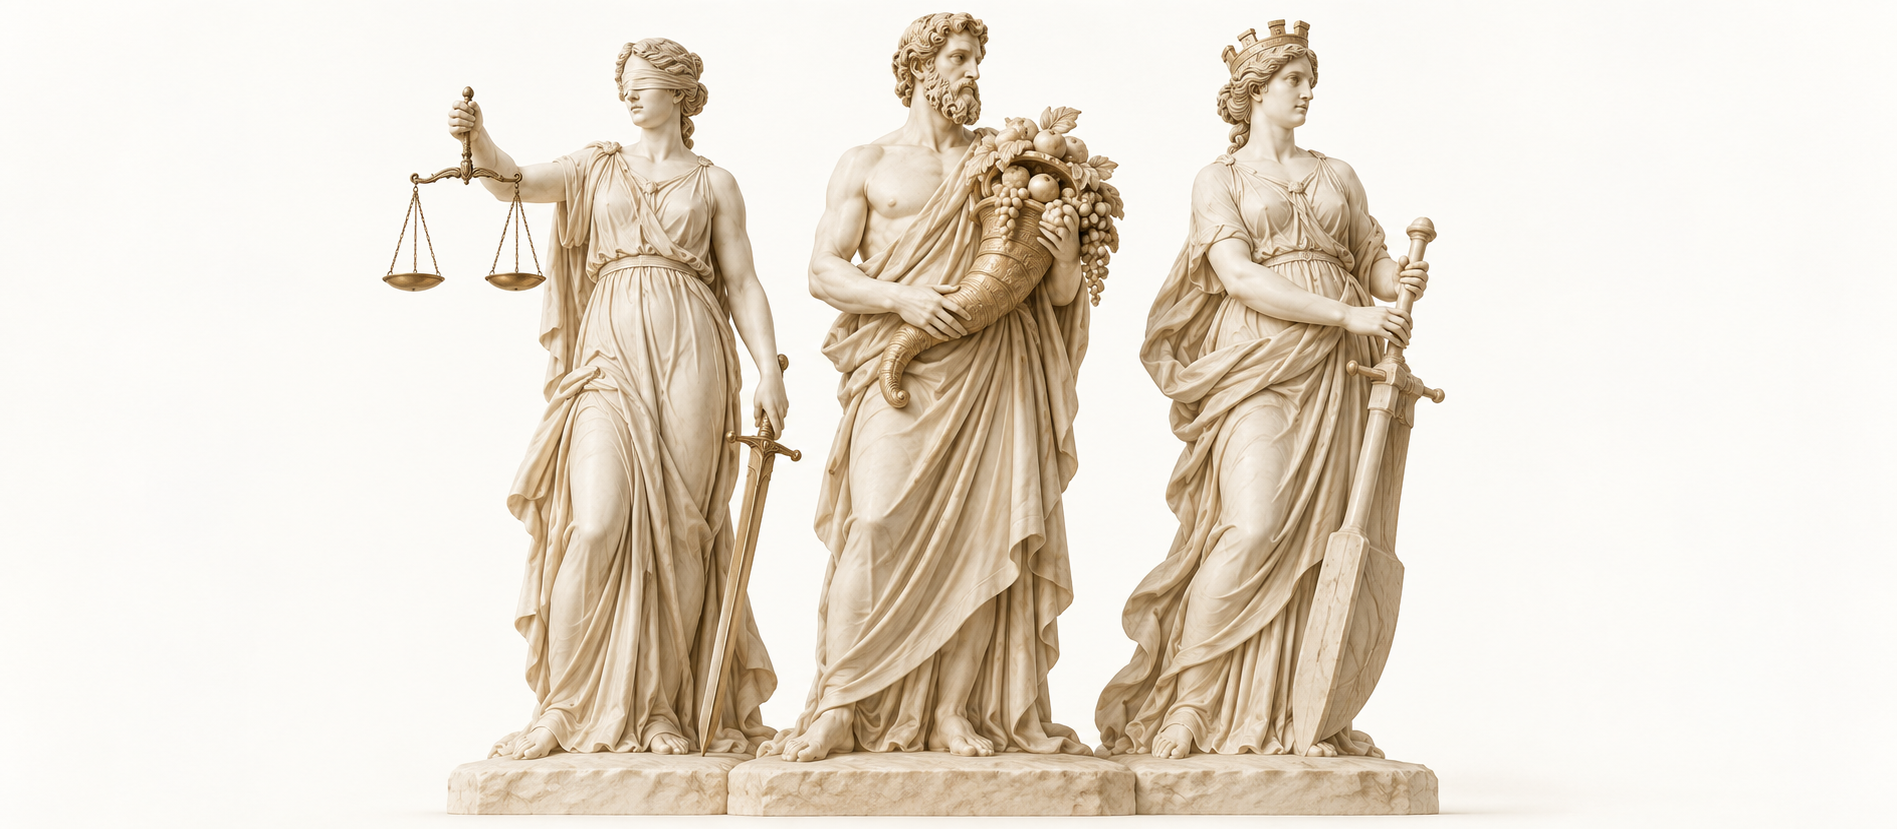
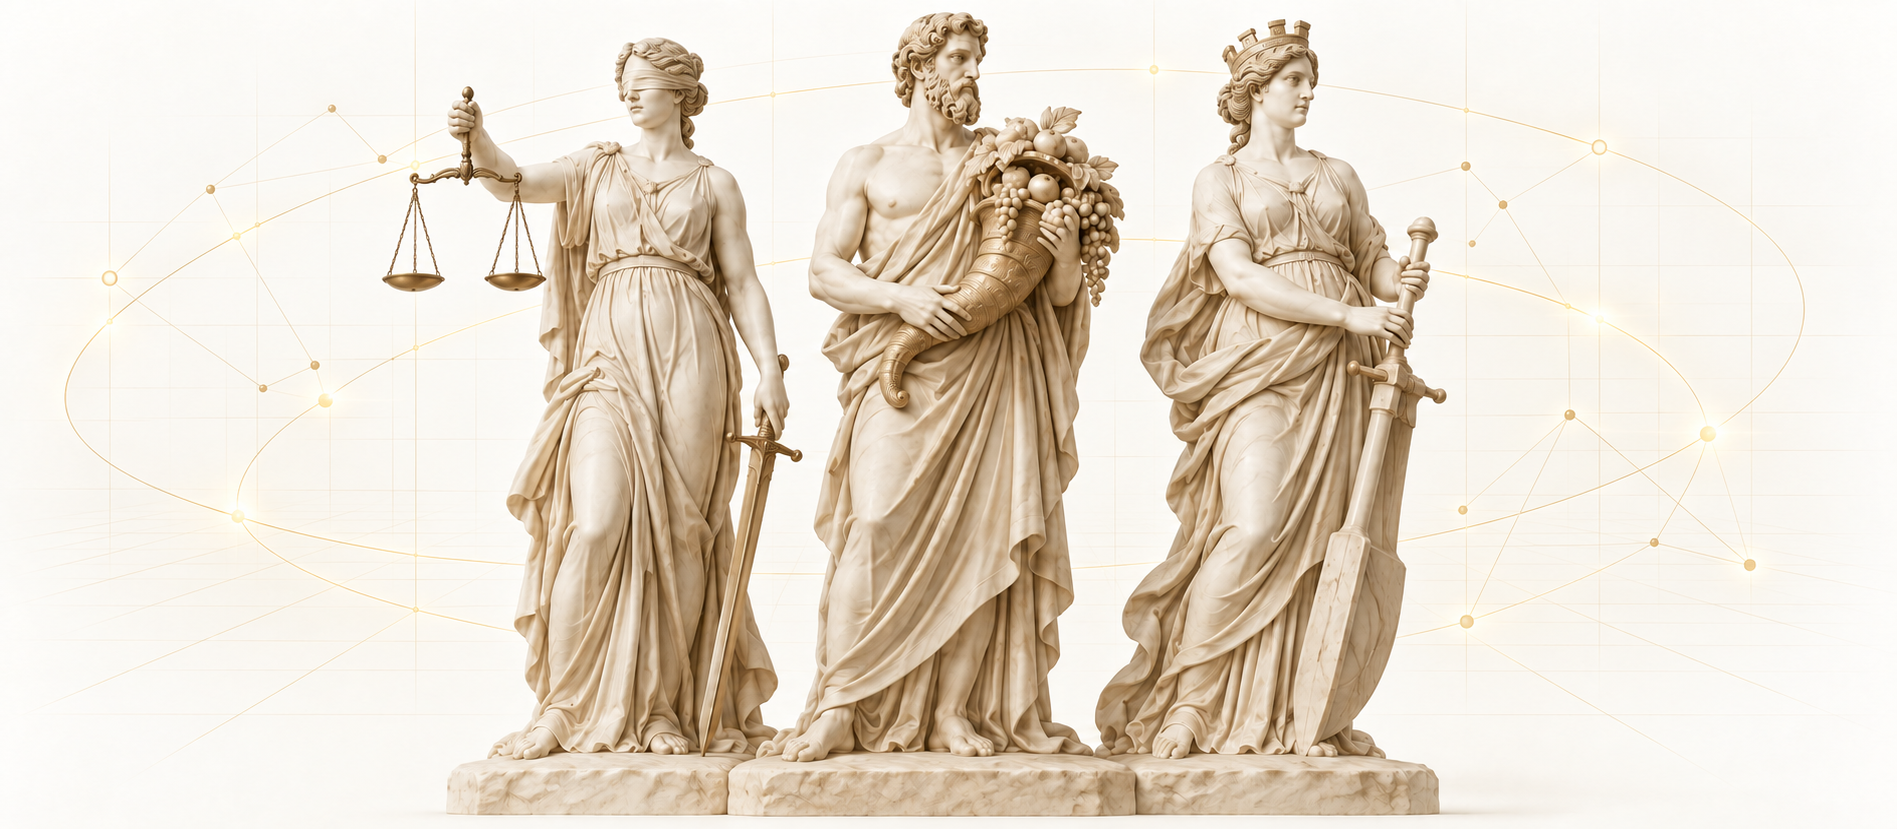
feat: restore auth slogan and use digital gods artwork

diff --git a/frontend/client/src/pages/login.tsx b/frontend/client/src/pages/login.tsx
@@ -101,8 +101,8 @@ export default function LoginPage() {
         </div>
 
         <div className="text-center">
-          <h1 className="registr-serif text-[clamp(3.5rem,5.8vw,6.5rem)] leading-[.98]">Ваш бренд.<br /><em className="font-normal text-[#9b8258]">Под вашей защитой.</em></h1>
-          <p className="mx-auto mt-6 max-w-md text-sm leading-7 text-[#746e66]">Проверка обозначения, подготовка заявки и ответы Роспатенту — в одном месте.</p>
+          <h1 className="registr-serif text-[clamp(2.5rem,3.7vw,4.75rem)] leading-[1.06]">Защищаем идеи - <em className="block font-normal text-[#9b8258]">управляем правами</em></h1>
+          <p className="mx-auto mt-6 max-w-md text-sm leading-7 text-[#746e66]">Регистрация товарных знаков - от заявки до свидетельства</p>
           <div className="registr-architecture" aria-hidden="true"><img src={pediment} alt="" width="1897" height="829" /></div>
         </div>
 
@@ -115,7 +115,11 @@ export default function LoginPage() {
 
       <section className="login-panel flex items-center justify-center bg-[#08090b] p-4 sm:p-5 xl:p-6">
         <div className="login-card w-full max-w-[580px] rounded-[18px] bg-[#fbfaf8] p-5 shadow-2xl sm:p-6 xl:p-7">
-          <div className="mb-5 text-[1.8rem] text-[#38322e] lg:hidden"><BrandWordmark /></div>
+          <div className="mb-6 lg:hidden">
+            <div className="text-[1.8rem] text-[#38322e]"><BrandWordmark /></div>
+            <h1 className="registr-serif mt-6 text-[1.8rem] leading-[1.1] text-[#38322e] sm:text-4xl">Защищаем идеи - <em className="block font-normal text-[#9b8258]">управляем правами</em></h1>
+            <p className="mt-3 text-sm leading-6 text-[#746e66]">Регистрация товарных знаков - от заявки до свидетельства</p>
+          </div>
           <div className="mb-4 flex border-b border-border text-center text-sm">
             <div className="relative flex-1 pb-4 font-medium text-[#38322e] after:absolute after:inset-x-0 after:bottom-[-1px] after:h-[3px] after:bg-primary">
               Вход

diff --git a/frontend/client/src/pages/signup.tsx b/frontend/client/src/pages/signup.tsx
@@ -55,9 +55,13 @@ export default function SignupPage({ verify = false }: { verify?: boolean }) {
   }
 
   return <main className="client-light-scope registr-v3 flex min-h-[100svh] items-center justify-center bg-[#fcfbf8] p-5">
-    <section className="w-full max-w-md rounded-2xl border bg-white p-7 shadow-sm">
-      <div className="mb-7 text-3xl text-[#38322e]"><BrandWordmark /></div>
-      <h1 className="text-2xl font-semibold">{verify ? "Завершить регистрацию" : "Регистрация клиента"}</h1>
+    <section className="w-full max-w-md rounded-2xl border bg-white p-5 shadow-sm sm:p-7">
+      <div className="mb-6 text-3xl text-[#38322e]"><BrandWordmark /></div>
+      <div className="mb-7 border-b border-border pb-6">
+        <h1 className="registr-serif text-[1.8rem] leading-[1.1] text-[#38322e] sm:text-[2rem]">Защищаем идеи - <em className="block font-normal text-[#9b8258]">управляем правами</em></h1>
+        <p className="mt-3 text-sm leading-6 text-[#746e66]">Регистрация товарных знаков - от заявки до свидетельства</p>
+      </div>
+      <h2 className="text-2xl font-semibold">{verify ? "Завершить регистрацию" : "Регистрация клиента"}</h2>
       <p className="mt-3 text-sm text-muted-foreground">{verify
         ? "Укажите имя и придумайте пароль для своего аккаунта."
         : "Укажите почту — отправим ссылку для подтверждения и создания пароля."}</p>

diff --git a/frontend/client/src/assets/three-gods.provenance.md b/frontend/client/src/assets/three-gods.provenance.md
@@ -1,20 +1,17 @@
-# Registr — three Greek gods homepage artwork
+# Registr — three Greek gods in a digital space
 
-- Mode: built-in image_gen (new generation; no reference image).
-- Created: 2026-09-13.
-- Final asset: three-gods.png.
-- Dimensions: 1897 × 829 pixels.
-- Visual review: exactly three distinct draped adult marble figures; Themis with blindfold, balanced scales and sword; Plutus with cornucopia; Tyche with mural crown and rudder. Entire figures and attributes are inside the frame. No text, extra figures or obvious malformed anatomy. Warm ivory backdrop and sculptural palette match the third design.
+- Mode: built-in image_gen (edit of the original three-gods illustration).
+- Selected version: variant 3, digital background with golden arcs, a coordinate grid and connected nodes.
+- Final asset: three-gods.png. Shared by the homepage and login screen.
+- Selection: explicitly requested by the user; this is variant 3, not the combined variant.
+- SHA-256: 9c5b857396567da1fecfa6d526de99cc6d2bf1de5c04841e678f39c02c9f21bd.
+- Visual review: exactly three full-length ivory marble statues with their original attributes and warm palette. Digital elements stay behind the sculptures; no text or interface elements.
 
 ## Final prompt
 
-Use case: stylized-concept
-Asset type: wide homepage hero artwork for an elegant Russian legal technology website.
-Primary request: create one sophisticated museum-quality sculptural group portraying exactly THREE ancient Greek gods: Themis (Фемида), Plutus (Плутос), and Tyche (Тюхе). They must look like three distinct antique statues of adult humans, each with two natural arms.
-Scene/backdrop: seamless pale warm ivory background matching #fcfbf8, with generous clean negative space and no architecture.
-Subjects: Themis is an adult woman wearing a beautifully carved classical draped robe and a delicate blindfold, holding one clear balanced two-pan scale in one hand and a restrained downwards sword in the other. Plutus is a distinct adult man with short curly hair and a short classical beard, draped robe, holding a generous classical cornucopia of sculpted fruit and abundance. Tyche is an adult woman in a draped robe, wearing a recognizable small mural city-wall crown and holding an elegant long ship's rudder. The attributes clearly belong to the corresponding figures.
-Style/medium: premium editorial photograph of one original harmonious ancient-Greek-inspired marble sculpture ensemble. Sculptures, not living people. Natural carved museum-quality faces, meticulous hands, softly aged warm ivory marble with fine grain, graceful carved fabric and subtle warm gold-beige shadows. Restrained, refined, calm.
-Composition/framing: wide landscape image around 2.3:1; three entire or three-quarter statues arranged together at the center, similar visual scale, with breathing room between them; no clipped heads, hands, scales, cornucopia, or rudder. Minimal low plinth softly blending into the ivory background. Website form and headline will sit above the image, so this artwork contains no interface.
-Lighting/mood: soft directional daylight and gentle natural shadows, bright premium magazine treatment, graceful sculptural volume.
-Color palette: predominantly paper #fcfbf8, warm ivory and sand #cebb9e, subtle gold-beige #9b8258.
-Constraints: exactly three distinct adult figures, no children, no extra figures, no other gods, no Zeus, no floating disembodied body parts. No text, lettering, labels, logos, watermark, columns, buildings, frame or webpage mockup. Anatomically plausible visible hands with correct fingers and no fused limbs.
+Use case: precise-object-edit. Asset type: panoramic hero artwork for an elegant Russian legal technology website.
+Input image 1 is the EDIT TARGET, not merely a style reference.
+Change ONLY the empty background behind the three sculptures, adding a restrained modern digital space.
+Preserve exactly the original three full length ivory marble statues and all sculpture geometry, material, expressions, identities, placement, poses, attributes, bases, scale and lighting. Themis on the left wears a blindfold and holds scales and sword; Plutus in the centre is bearded and holds a cornucopia; Tyche at right has a mural crown and rudder. Keep their carved marble surfaces fully classical, unchanged, uninterrupted. Keep the existing wide panoramic composition and same proportions, warm nearly-white backdrop, ample surrounding negative space, soft studio lighting.
+Background addition: a delicate pale golden coordinate grid fading naturally into the warm white background, with a few elegant broad luminous elliptical arcs passing BEHIND the figures and a sparse constellation of connected small golden nodes. These lines are crisp but very restrained, suggesting computation, data and modern digital expertise. All digital decoration must remain behind the sculptures, be occluded by statues, and occupy only around 10–15% of visual emphasis. A quiet premium editorial composition, subtle luminous champagne gold, no distracting clutter.
+Do not add wireframes, particles or grids to the bodies, drapery or bases; do not digitize the scales, cornucopia or rudder. No new objects, no text, letters, logos, labels, numerals, interfaces, dark background, saturated blue, purple or cyberpunk colors. Exactly one image.
